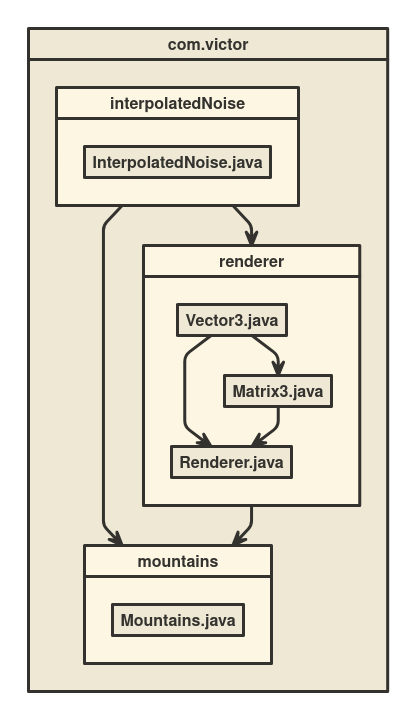
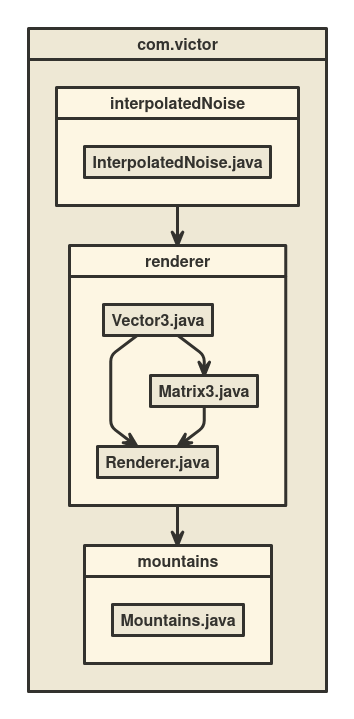
Renderer started

diff --git a/src/main/java/com/victor/mountains/renderer/Renderer.java b/src/main/java/com/victor/mountains/renderer/Renderer.java
@@ -4,10 +4,54 @@
  */
 package com.victor.mountains.renderer;
 
+import com.victor.mountains.interpolatedNoise.InterpolatedNoise;
+
 /**
  *
  * @author bard
  */
 public class Renderer {
+    private static final int LIGHT_BLUE = 6089215;
+    private static final int DARK_BLUE = 461352;
+    private static final double SEPARATION = 0.1;
+    private static final double LINE_WIDTH = 0.005;
     
+    private Vector3[][] points;
+    private int[][] colors;
+    public int[][] buffer;
+    public double[][] zbuffer;
+    private int width;
+    private int height;
+    
+    public Renderer(InterpolatedNoise noise, int width, int height) {
+        this.points = new Vector3[height][width];
+        this.colors = new int[height][width];
+        this.buffer = new int[height][width];
+        this.zbuffer = new double[height][width];
+        this.width = width;
+        this.height = height;
+        
+        double x, y, z;
+        for (int i = 0; i < width; i++) {
+            for(int j = 0; j < height; j++) {
+                x = ((double) i)/((double) width);
+                y = ((double) j)/((double) height);
+                z = noise.interpolatedNoise(x, y);
+                
+                this.points[j][i] = new Vector3(x, y, z);
+                this.colors[j][i] = 
+                        ((z % Renderer.SEPARATION) < Renderer.LINE_WIDTH) ?
+                        Renderer.LIGHT_BLUE :
+                        Renderer.DARK_BLUE;
+            }
+        }
+    }
+    
+    public void renderToBuffer(double angle) {
+        for (int i = 0; i < this.width; i++) {
+            for (int j = 0; j < this.height; j++) {
+                this.buffer[j][i] = this.colors[j][i];
+            }
+        }
+    }
 }

diff --git a/src/main/java/com/victor/mountains/Mountains.java b/src/main/java/com/victor/mountains/Mountains.java
@@ -5,6 +5,7 @@
 package com.victor.mountains;
 
 import com.victor.mountains.interpolatedNoise.InterpolatedNoise;
+import com.victor.mountains.renderer.Renderer;
 import java.awt.image.BufferedImage;
 import javax.swing.ImageIcon;
 import javax.swing.JFrame;
@@ -28,7 +29,7 @@ public class Mountains {
                 BufferedImage.TYPE_INT_RGB
         );
         
-        InterpolatedNoise p = new InterpolatedNoise(
+        InterpolatedNoise noise = new InterpolatedNoise(
                 12.9898,
                 78.233,
                 43758.5453123,
@@ -36,7 +37,7 @@ public class Mountains {
                 8.0
         );
         
-        int col;
+        /*int col;
         double n, x, y;
         for (int i = 0; i<Mountains.WIDTH; i++) {
             for (int j = 0; j < Mountains.HEIGHT; j++) {
@@ -53,6 +54,15 @@ public class Mountains {
                 //col = col + col*256 + col*65536;
                 
                 im.setRGB(i, j, col);
+            }
+        }*/
+        
+        Renderer renderer = new Renderer(noise, Mountains.WIDTH, Mountains.HEIGHT);
+        renderer.renderToBuffer(69.0);
+        
+        for (int i = 0; i < Mountains.WIDTH; i++) {
+            for (int j = 0; j < Mountains.HEIGHT; j++) {
+                im.setRGB(i, j, renderer.buffer[j][i]);
             }
         }
         

diff --git a/src/main/java/com/victor/mountains/renderer/Vector3.java b/src/main/java/com/victor/mountains/renderer/Vector3.java
@@ -19,7 +19,7 @@ public class Vector3 {
         this.z = z;
     }
     
-    public void mule(double a) {
+    public void mul(double a) {
         this.x *= a;
         this.y *= a;
         this.z *= a;
@@ -39,7 +39,7 @@ public class Vector3 {
     }
     
     public void sub(Vector3 rhs) {
-        rhs.mule(-1);
+        rhs.mul(-1);
         this.sum(rhs);
     }
 }

diff --git a/src/main/java/com/victor/mountains/renderer/Matrix3.java b/src/main/java/com/victor/mountains/renderer/Matrix3.java
@@ -48,7 +48,7 @@ public class Matrix3 {
         );
     }
     
-    public Vector3 mulv(Vector3 rhs) {
+    public Vector3 mul(Vector3 rhs) {
         return new Vector3(
                 this.f1.mul(rhs),
                 this.f2.mul(rhs),
